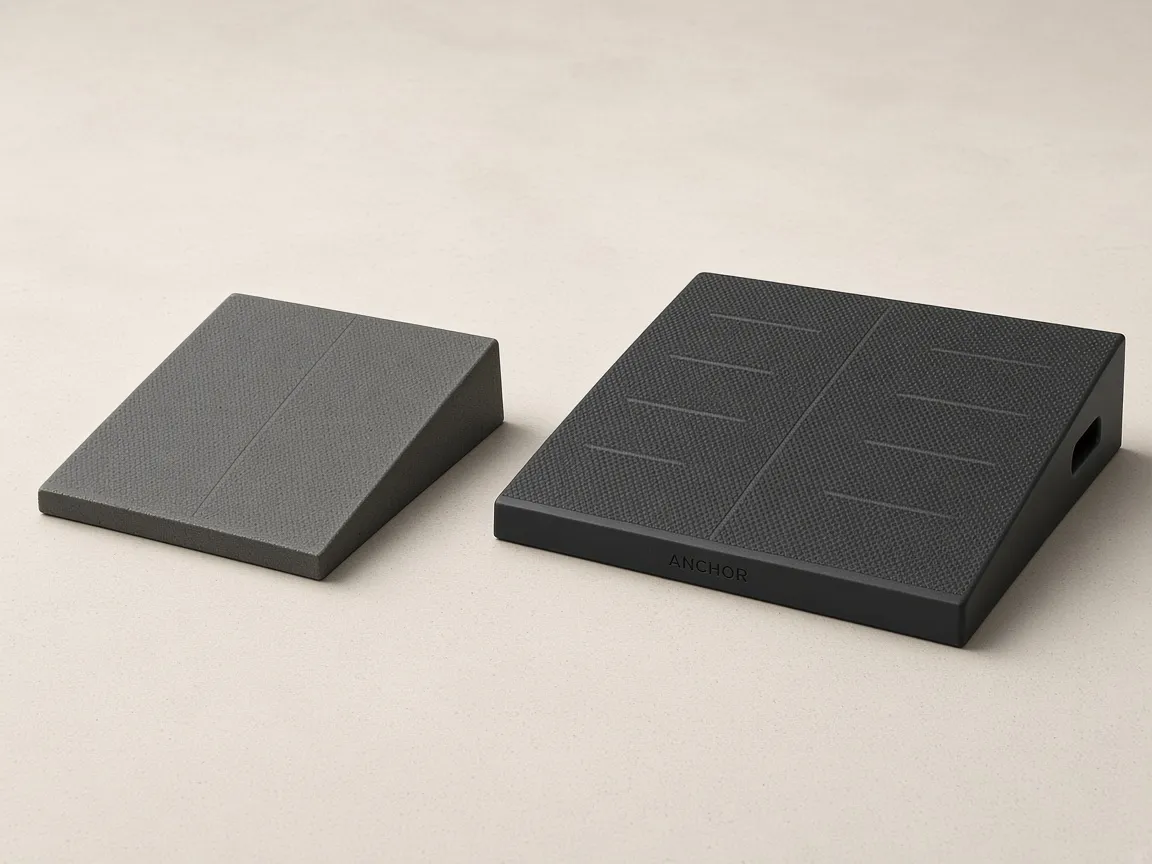
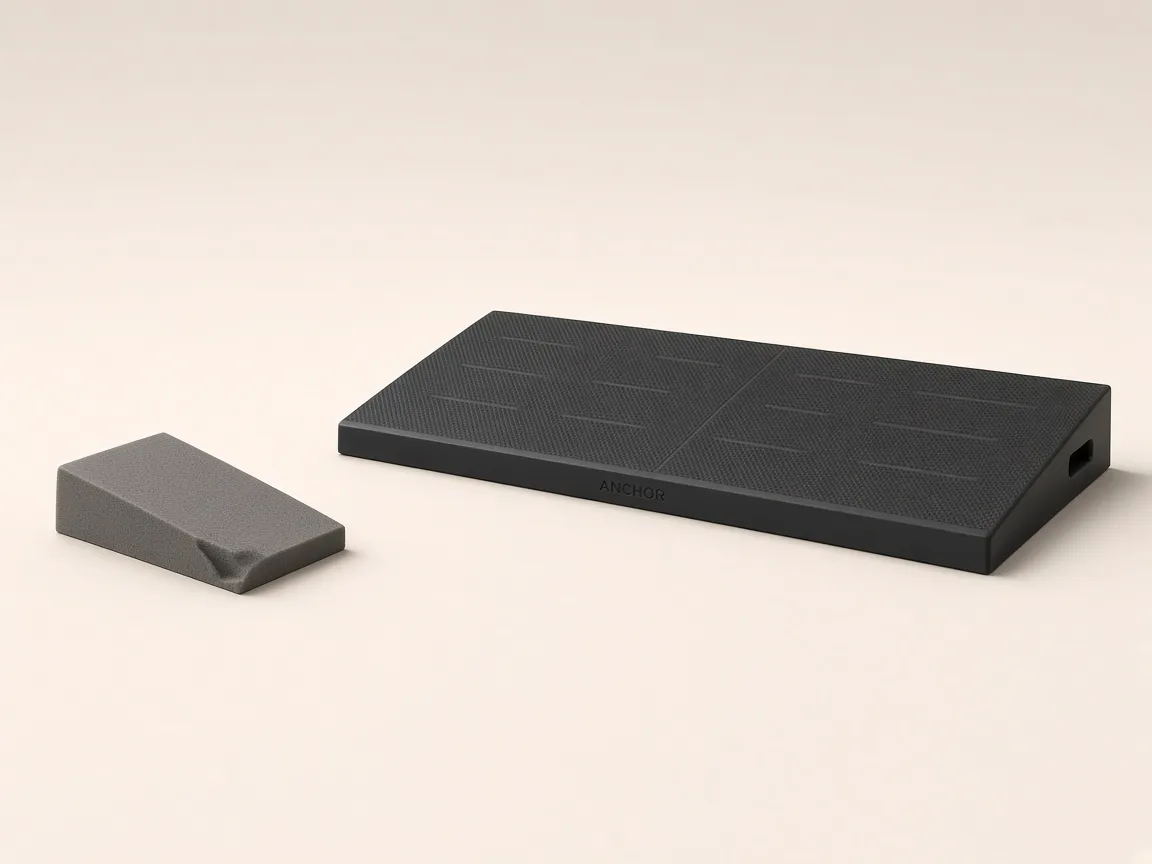
ANCHOR: 27in full-width one-piece wedge, regenerated images + copy

diff --git a/pages/squat-wedge-ads/index.html b/pages/squat-wedge-ads/index.html
@@ -113,13 +113,13 @@ So here&#x27;s what $79 gets you:
 • A hardwood core over-molded in natural rubber. Rated to 1,000 lb.
 • Grip molded into the material, not glued tape. Nothing to peel.
 • A full rubber base, so it stays put on the floor.
-• A 28&quot; platform that fits up to men&#x27;s size 15.
+• 27&quot; long, so both feet stand on it side by side, and 11&quot; deep, to men&#x27;s size 15.
 • About 7 lb, with a carry handle.
 
 And a lifetime grip guarantee. If the grip ever wears out, we replace it.
 
 Buy it once. Squat on it for years.</pre></div></details>
-  <details><summary>AI prompts (image 4:5 + video 9:16)</summary><div class="pblock"><div class="phead"><span class="plabel">4:5 founder static (used for the sample)</span><span class="badge">Adapted</span><button class="copy" type="button" aria-label="Copy 4:5 founder static (used for the sample)">Copy</button></div><pre>Photorealistic vertical photo of a fictional founder: a fit man in his early 40s with a short beard, plain black t-shirt with no logos, standing in a tidy home garage gym with a squat rack and plates behind him, holding the dark charcoal rubber ANCHOR squat wedge by its carry handle, looking straight into the camera with a calm, honest expression, like the first frame of a founder video. Natural daylight, warm tones, iPhone-style realism. Leave the top third clean. Text overlay (add in design tool): pill “FROM THE FOUNDER”; headline “$79 for a squat wedge? Yeah. Here&#x27;s why.”; sub “Most wedges are foam with tape glued on. Mine is a hardwood core molded in rubber, so the grip can&#x27;t peel and it doesn&#x27;t move.”; bottom bar: ANCHOR logo + “Lifetime grip guarantee”. Aspect 4:5 (also export 9:16). Label: AI-generated person. Use the ANCHOR product photo as a reference image so the product stays accurate: a dark charcoal one-piece rubber squat wedge (15°, 28&quot;x11&quot;), fine molded micro-texture across the whole top, molded foot-guide outlines near the low end, a recessed carry handle in the tall end, and a small orange ANCHOR logo on the side face.</pre></div><div class="pblock"><div class="phead"><span class="plabel">Video prompt, 9:16</span><span class="badge">Adapted</span><button class="copy" type="button" aria-label="Copy Video prompt, 9:16">Copy</button></div><pre>9:16, 30s, founder-to-camera, handheld iPhone look, garage gym.
+  <details><summary>AI prompts (image 4:5 + video 9:16)</summary><div class="pblock"><div class="phead"><span class="plabel">4:5 founder static (used for the sample)</span><span class="badge">Adapted</span><button class="copy" type="button" aria-label="Copy 4:5 founder static (used for the sample)">Copy</button></div><pre>Photorealistic vertical photo of a fictional founder: a fit man in his early 40s with a short beard, plain black t-shirt with no logos, standing in a tidy home garage gym with a squat rack and plates behind him, holding the long dark charcoal rubber ANCHOR squat wedge horizontally across his waist with a hand on each end, so its full 27&quot; length spans his body. Frame from the chin down (no face) for the sample; for a real founder video, film the real founder face-on. Natural daylight, warm tones, iPhone-style realism. Leave the top third clean. Text overlay (add in design tool): pill “FROM THE FOUNDER”; headline “$79 for a squat wedge? Yeah. Here&#x27;s why.”; sub “Most wedges are foam with tape glued on. Mine is a hardwood core molded in rubber, so the grip can&#x27;t peel and it doesn&#x27;t move.”; bottom bar: ANCHOR logo + “Lifetime grip guarantee”. Aspect 4:5 (also export 9:16). Label: AI-generated person. Use the ANCHOR product photo as a reference image so the product stays accurate: a dark charcoal one-piece rubber squat wedge (15°, 27&quot; long x 11&quot; deep x about 3&quot; tall at the back: long and low, about 2.5 times as long as it is deep, so BOTH feet stand on it side by side at shoulder width with room on each side; never show a narrow single-foot wedge or two feet crammed on a short one), fine molded micro-texture across the whole top, molded foot-guide outlines, a recessed carry handle in each short end, and a small orange ANCHOR logo on the front face.</pre></div><div class="pblock"><div class="phead"><span class="plabel">Video prompt, 9:16</span><span class="badge">Adapted</span><button class="copy" type="button" aria-label="Copy Video prompt, 9:16">Copy</button></div><pre>9:16, 30s, founder-to-camera, handheld iPhone look, garage gym.
 0-3s: Close medium shot, founder holds ANCHOR up to camera. On-screen: “Why is this wedge $79?” VO: “You might think $79 is a lot for a squat wedge. It is. Here&#x27;s why.”
 3-8s: Cut to founder dropping a cheap foam wedge on the floor and pressing his thumb into it; it dents. VO: “Most wedges are foam. They squish under a loaded bar.”
 8-12s: Macro of a premium plywood board&#x27;s grip tape peeling at the corner. VO: “The expensive ones are wood with tape glued on. Tape peels.”
@@ -130,10 +130,10 @@ Label the founder as AI-generated if he is.</pre></div></details>
   <details><summary>UGC creator script</summary><div class="pblock"><div class="phead"><span class="plabel">Creator script</span><span class="badge">Timestamps</span><button class="copy" type="button" aria-label="Copy Creator script">Copy</button></div><pre>0-3s HOOK (to camera, holding the wedge): “$79 for a squat wedge? Yeah, I know. Let me show you why.” On screen: “Why is this wedge $79?”
 3-10s PROBLEM: (hold up a foam wedge, squeeze it) “Every wedge I owned did one of three things. Squished under the bar… (show tape) the grip tape peeled… or it slid when I set my feet.”
 10-18s DISCOVERY: “So I made one with a hardwood core molded in rubber. The grip isn&#x27;t tape, it&#x27;s molded into the material. Nothing to peel.” On screen: close-up of texture.
-18-25s DEMO: (in socks) set feet, squat 3 reps, look down at feet. “Socks. Didn&#x27;t move.” On screen: “28&quot; long, fits up to size 15”.
+18-25s DEMO: (in socks) set feet, squat 3 reps, look down at feet. “Socks. Didn&#x27;t move.” On screen: “27&quot; long, both feet, to size 15”.
 25-30s OFFER + CTA: “Lifetime grip guarantee. $79. Link&#x27;s below.” On screen: “The squat wedge that doesn&#x27;t move.”
 ALT HOOKS: (1) “Most premium slant boards are plywood with skateboard tape.” (2) “If your wedge has ever slid under a loaded bar, watch this.” (3) “I&#x27;m going to tell you why I charge $79 for a wedge.”</pre></div></details>
-  <details><summary>Creator brief (Influee / JoinBrands / Tribe / Billo)</summary><div class="pblock"><div class="phead"><span class="plabel">Creator brief</span><span class="badge">Paste-ready</span><button class="copy" type="button" aria-label="Copy Creator brief">Copy</button></div><pre>Product: ANCHOR Squat Wedge ($79), a one-piece 15° wedge with a hardwood core over-molded in natural rubber, grip molded in (no tape), full rubber base, 28x11 platform (to men&#x27;s size 15), rated 1,000 lb, ~7 lb, lifetime grip guarantee.
+  <details><summary>Creator brief (Influee / JoinBrands / Tribe / Billo)</summary><div class="pblock"><div class="phead"><span class="plabel">Creator brief</span><span class="badge">Paste-ready</span><button class="copy" type="button" aria-label="Copy Creator brief">Copy</button></div><pre>Product: ANCHOR Squat Wedge ($79), a one-piece 15° wedge with a hardwood core over-molded in natural rubber, grip molded in (no tape), full rubber base, 27&quot; x 11&quot; one-piece platform (both feet side by side; 11&quot; deep fits men&#x27;s size 15), rated 1,000 lb, ~7 lb, lifetime grip guarantee.
 Creator: a male lifter aged 30-45 with a home or garage gym who can speak like the founder or an honest reviewer. Calm and credible, not hype.
 Deliverables: 2 videos at 30-45s, 9:16, plus 3 alternate hooks filmed separately, plus raw footage.
 Must say: “The grip is molded in, not glued on.” “Lifetime grip guarantee.” The price ($79).
@@ -173,12 +173,12 @@ ANCHOR is built differently:
 ✓ Hardwood core over-molded in natural rubber, rated to 1,000 lb
 ✓ Grip molded into the rubber, so there&#x27;s nothing to peel
 ✓ Full rubber base, so it stays put on the floor
-✓ 28&quot; platform that fits up to men&#x27;s size 15
+✓ 27&quot; long for both feet, 11&quot; deep for up to men&#x27;s size 15
 
 If you&#x27;re serious about your squat, your wedge should be too.
 
 Lifetime grip guarantee.</pre></div></details>
-  <details><summary>AI prompts (image 4:5 + video 9:16)</summary><div class="pblock"><div class="phead"><span class="plabel">4:5 comparison static (used for the sample)</span><span class="badge">Adapted</span><button class="copy" type="button" aria-label="Copy 4:5 comparison static (used for the sample)">Copy</button></div><pre>Photorealistic vertical split-screen product comparison with a thin divider. LEFT: a generic unbranded light-blue foam squat wedge with a dented corner, crumbs of foam, and black grip tape peeling up, under cool flat light. RIGHT: the dark charcoal rubber ANCHOR wedge, pristine, with its molded micro-texture top and orange logo, under warm premium light, at the same three-quarter angle on the same concrete floor. Leave the top 25% empty. Text overlay: headline “Most squat wedges slip, squish or peel.” sub “ANCHOR is built differently.”; labels “Foam + glued tape” vs “ANCHOR”; rows ✕ Compresses under load / ✓ Hardwood core, 1,000 lb; ✕ Tape peels, goes smooth / ✓ Grip molded in, can&#x27;t peel; ✕ Slides in socks / ✓ Grips socks &amp; bare feet; ✕ Too short for size 13 / ✓ 28&quot; platform, to size 15. Never show a real competitor&#x27;s brand. 4:5 and 9:16. Use the ANCHOR product photo as a reference image so the product stays accurate: a dark charcoal one-piece rubber squat wedge (15°, 28&quot;x11&quot;), fine molded micro-texture across the whole top, molded foot-guide outlines near the low end, a recessed carry handle in the tall end, and a small orange ANCHOR logo on the side face.</pre></div><div class="pblock"><div class="phead"><span class="plabel">Video prompt, 9:16</span><span class="badge">Adapted</span><button class="copy" type="button" aria-label="Copy Video prompt, 9:16">Copy</button></div><pre>9:16, 18s, moody product-detail montage, no voiceover, punchy beat (instrumental).
+  <details><summary>AI prompts (image 4:5 + video 9:16)</summary><div class="pblock"><div class="phead"><span class="plabel">4:5 comparison static (used for the sample)</span><span class="badge">Adapted</span><button class="copy" type="button" aria-label="Copy 4:5 comparison static (used for the sample)">Copy</button></div><pre>Photorealistic vertical split-screen product comparison with a thin divider. LEFT: a generic unbranded light-blue foam squat wedge with a dented corner, crumbs of foam, and black grip tape peeling up, under cool flat light. RIGHT: the long (27&quot;) dark charcoal rubber ANCHOR wedge, clearly more than twice the length of the foam one, pristine, with its molded micro-texture top and orange logo, under warm premium light, at the same three-quarter angle on the same concrete floor. Leave the top 25% empty. Text overlay: headline “Most squat wedges slip, squish or peel.” sub “ANCHOR is built differently.”; labels “Foam + glued tape” vs “ANCHOR”; rows ✕ Compresses under load / ✓ Hardwood core, 1,000 lb; ✕ Tape peels, goes smooth / ✓ Grip molded in, can&#x27;t peel; ✕ Slides in socks / ✓ Grips socks &amp; bare feet; ✕ Too short for size 13 / ✓ 27&quot; long, fits size 15. Never show a real competitor&#x27;s brand. 4:5 and 9:16. Use the ANCHOR product photo as a reference image so the product stays accurate: a dark charcoal one-piece rubber squat wedge (15°, 27&quot; long x 11&quot; deep x about 3&quot; tall at the back: long and low, about 2.5 times as long as it is deep, so BOTH feet stand on it side by side at shoulder width with room on each side; never show a narrow single-foot wedge or two feet crammed on a short one), fine molded micro-texture across the whole top, molded foot-guide outlines, a recessed carry handle in each short end, and a small orange ANCHOR logo on the front face.</pre></div><div class="pblock"><div class="phead"><span class="plabel">Video prompt, 9:16</span><span class="badge">Adapted</span><button class="copy" type="button" aria-label="Copy Video prompt, 9:16">Copy</button></div><pre>9:16, 18s, moody product-detail montage, no voiceover, punchy beat (instrumental).
 0-2s: Black screen. Text: “Most squat wedges are foam.” Then a hand presses into a generic foam wedge, which dents.
 2-5s: Macro of grip tape peeling off a wooden board. Text: “Or tape on wood.”
 5-9s: Hard cut to ANCHOR on a dark rubber gym floor under a spotlight; slow dolly-in across the molded texture. Text: “ANCHOR: grip molded in.”
@@ -229,14 +229,14 @@ Socks, bare feet, lifting shoes. A loaded bar. A size-15 foot. ANCHOR doesn&#x27
 That&#x27;s because the grip isn&#x27;t tape. It&#x27;s molded into the rubber, over a solid hardwood core, on a full rubber base.
 
 • 15° one-piece wedge
-• 28&quot; x 11&quot; platform, fits up to men&#x27;s size 15
+• 27&quot; x 11&quot; one-piece platform: both feet side by side, up to men&#x27;s size 15
 • Rated to 1,000 lb, about 7 lb with a carry handle
 • Lifetime grip guarantee</pre></div></details>
-  <details><summary>AI prompts (image 4:5 + video 9:16)</summary><div class="pblock"><div class="phead"><span class="plabel">4:5 sock-grip close-up (used for the sample)</span><span class="badge">Adapted</span><button class="copy" type="button" aria-label="Copy 4:5 sock-grip close-up (used for the sample)">Copy</button></div><pre>Photorealistic low-angle close-up at floor level: two feet in plain grey athletic socks planted on the sloped top of the dark charcoal rubber ANCHOR squat wedge, heels on the raised end, the molded micro-texture sharply visible under the socks. Garage-gym concrete floor, warm side light, shallow depth of field. Text overlay at top over a dark gradient: “Socks. Bare feet. Shoes.” then, in orange, “It doesn&#x27;t move.”; sub “Grip molded into the rubber, not glued on. Lifetime grip guarantee.” 4:5 and 9:16. Use the ANCHOR product photo as a reference image so the product stays accurate: a dark charcoal one-piece rubber squat wedge (15°, 28&quot;x11&quot;), fine molded micro-texture across the whole top, molded foot-guide outlines near the low end, a recessed carry handle in the tall end, and a small orange ANCHOR logo on the side face.</pre></div><div class="pblock"><div class="phead"><span class="plabel">Video prompt, 9:16</span><span class="badge">Adapted</span><button class="copy" type="button" aria-label="Copy Video prompt, 9:16">Copy</button></div><pre>9:16, 14s, wordless, seamless light-grey studio, music only, fast cuts (Nordstick style).
+  <details><summary>AI prompts (image 4:5 + video 9:16)</summary><div class="pblock"><div class="phead"><span class="plabel">4:5 sock-grip close-up (used for the sample)</span><span class="badge">Adapted</span><button class="copy" type="button" aria-label="Copy 4:5 sock-grip close-up (used for the sample)">Copy</button></div><pre>Photorealistic low-angle close-up at floor level: two feet in grey athletic socks planted side by side at shoulder width on the sloped top of the one long (27&quot;) dark charcoal rubber ANCHOR squat wedge, empty wedge visible beyond each foot, heels on the raised back edge, the molded micro-texture sharply visible under the socks. Garage-gym concrete floor, warm side light, shallow depth of field. Text overlay at top over a dark gradient: “Socks. Bare feet. Shoes.” then, in orange, “It doesn&#x27;t move.”; sub “Grip molded into the rubber, not glued on. Lifetime grip guarantee.” 4:5 and 9:16. Use the ANCHOR product photo as a reference image so the product stays accurate: a dark charcoal one-piece rubber squat wedge (15°, 27&quot; long x 11&quot; deep x about 3&quot; tall at the back: long and low, about 2.5 times as long as it is deep, so BOTH feet stand on it side by side at shoulder width with room on each side; never show a narrow single-foot wedge or two feet crammed on a short one), fine molded micro-texture across the whole top, molded foot-guide outlines, a recessed carry handle in each short end, and a small orange ANCHOR logo on the front face.</pre></div><div class="pblock"><div class="phead"><span class="plabel">Video prompt, 9:16</span><span class="badge">Adapted</span><button class="copy" type="button" aria-label="Copy Video prompt, 9:16">Copy</button></div><pre>9:16, 14s, wordless, seamless light-grey studio, music only, fast cuts (Nordstick style).
 0-2s: Top text “WHAT CAN&#x27;T IT GRIP?” Camera at foot level; a socked foot steps onto ANCHOR.
 2-4s: Bare foot steps on, wiggles, stays put. Text “Bare feet ✓”.
 4-6s: Lifting shoe steps on. Text “Shoes ✓”.
-6-9s: A size-15 foot fits fully on the 28&quot; platform; a tape measure pulled alongside. Text “Up to size 15 ✓”.
+6-9s: Both feet at shoulder width on the 27&quot; wedge, then a size-15 foot fitting fully front to back; a tape measure pulled alongside. Text “27&quot; long · up to size 15 ✓”.
 9-12s: Wide shot: barbell back squat in socks, deep, feet stay planted. Text “Loaded bar ✓”.
 12-14s: End card: ANCHOR, “The squat wedge that doesn&#x27;t move.”</pre></div></details>
   <details><summary>UGC creator script</summary><div class="pblock"><div class="phead"><span class="plabel">Creator script</span><span class="badge">Timestamps</span><button class="copy" type="button" aria-label="Copy Creator script">Copy</button></div><pre>CREATOR VERSION (PT or coach, 30-40s):
@@ -341,7 +341,7 @@ No flex. No slide. No grip tape to peel.
 ANCHOR is a hardwood core molded in natural rubber, rated to 1,000 lb, with the grip built into the material and a full rubber base. It still weighs only about 7 lb, so it goes in your gym bag.
 
 Lifetime grip guarantee. $79, once.</pre></div></details>
-  <details><summary>AI prompts (image 4:5 + video 9:16)</summary><div class="pblock"><div class="phead"><span class="plabel">4:5 load static (used for the sample)</span><span class="badge">Adapted</span><button class="copy" type="button" aria-label="Copy 4:5 load static (used for the sample)">Copy</button></div><pre>Photorealistic vertical action photo in a home garage gym: a strong lifter in his 30s at the bottom of a deep high-bar back squat with a heavily loaded barbell (black bumper plates, no logos), torso upright, heels elevated on the dark charcoal rubber ANCHOR wedge, which sits flat and stable on rubber flooring. Low side camera so the wedge and orange logo are clear. Dramatic warm side light. Text overlay at top over a gradient: “Rated to 1,000 lb.” / orange “Zero give. Zero slide.” / “The last squat wedge you&#x27;ll buy. $79.” Label: AI-generated image. 4:5 and 9:16. Use the ANCHOR product photo as a reference image so the product stays accurate: a dark charcoal one-piece rubber squat wedge (15°, 28&quot;x11&quot;), fine molded micro-texture across the whole top, molded foot-guide outlines near the low end, a recessed carry handle in the tall end, and a small orange ANCHOR logo on the side face.</pre></div><div class="pblock"><div class="phead"><span class="plabel">Video prompt, 9:16</span><span class="badge">Adapted</span><button class="copy" type="button" aria-label="Copy Video prompt, 9:16">Copy</button></div><pre>9:16, 25s, creator review in a garage gym.
+  <details><summary>AI prompts (image 4:5 + video 9:16)</summary><div class="pblock"><div class="phead"><span class="plabel">4:5 load static (used for the sample)</span><span class="badge">Adapted</span><button class="copy" type="button" aria-label="Copy 4:5 load static (used for the sample)">Copy</button></div><pre>Photorealistic vertical action photo in a home garage gym: a strong lifter in his 30s at the bottom of a deep high-bar back squat with a heavily loaded barbell (black bumper plates, no logos), torso upright, both feet at shoulder width with heels elevated on the one long (27&quot;) dark charcoal rubber ANCHOR wedge, which sits flat and stable on rubber flooring. Low side camera so the wedge and orange logo are clear. Dramatic warm side light. Text overlay at top over a gradient: “Rated to 1,000 lb.” / orange “Zero give. Zero slide.” / “The last squat wedge you&#x27;ll buy. $79.” Label: AI-generated image. 4:5 and 9:16. Use the ANCHOR product photo as a reference image so the product stays accurate: a dark charcoal one-piece rubber squat wedge (15°, 27&quot; long x 11&quot; deep x about 3&quot; tall at the back: long and low, about 2.5 times as long as it is deep, so BOTH feet stand on it side by side at shoulder width with room on each side; never show a narrow single-foot wedge or two feet crammed on a short one), fine molded micro-texture across the whole top, molded foot-guide outlines, a recessed carry handle in each short end, and a small orange ANCHOR logo on the front face.</pre></div><div class="pblock"><div class="phead"><span class="plabel">Video prompt, 9:16</span><span class="badge">Adapted</span><button class="copy" type="button" aria-label="Copy Video prompt, 9:16">Copy</button></div><pre>9:16, 25s, creator review in a garage gym.
 0-3s: Creator to camera: “In my opinion, this is the last squat wedge you&#x27;ll buy.” Text: “Load test.”
 3-8s: Stack 45 lb plates one by one on ANCHOR; macro on the edge showing no compression. Text counts “45… 90… 135… 180 lb”.
 8-12s: Side-by-side: thumb into a generic foam wedge (dents) vs. thumb on ANCHOR (doesn&#x27;t).
@@ -395,7 +395,7 @@ But it only works if the wedge is stable. Mine used to slide on the floor and wo
 ANCHOR has a full rubber base and grip molded into the top, so it stays put, even in socks. It&#x27;s 7 lb with a handle, so I move it from the living room to the bedroom.
 
 Start easy, go at your own pace, and check with your doctor or physical therapist if you have an injury.</pre></div></details>
-  <details><summary>AI prompts (image 4:5 + video 9:16)</summary><div class="pblock"><div class="phead"><span class="plabel">4:5 comfort static (used for the sample)</span><span class="badge">Adapted</span><button class="copy" type="button" aria-label="Copy 4:5 comfort static (used for the sample)">Copy</button></div><pre>Photorealistic UGC-style phone photo: a fit, smiling woman in her late 50s with short grey hair, plain leggings and t-shirt, doing a light goblet squat holding a kettlebell in her living room, heels on the raised end of the dark charcoal ANCHOR wedge, torso upright, comfortable and confident. Warm window light. Text card top-right: “Squats that feel easier on your knees.” / “Heels up, chest up, on a base that doesn&#x27;t wobble. 7 lb, carry handle.” Label: AI-generated person. No logos on the kettlebell. 4:5 and 9:16. Use the ANCHOR product photo as a reference image so the product stays accurate: a dark charcoal one-piece rubber squat wedge (15°, 28&quot;x11&quot;), fine molded micro-texture across the whole top, molded foot-guide outlines near the low end, a recessed carry handle in the tall end, and a small orange ANCHOR logo on the side face.</pre></div><div class="pblock"><div class="phead"><span class="plabel">Video prompt, 9:16</span><span class="badge">Adapted</span><button class="copy" type="button" aria-label="Copy Video prompt, 9:16">Copy</button></div><pre>9:16, 25s, selfie UGC in a living room, natural light, with a TikTok-style “Reply to comment” sticker that reads “my knees could never”.
+  <details><summary>AI prompts (image 4:5 + video 9:16)</summary><div class="pblock"><div class="phead"><span class="plabel">4:5 comfort static (used for the sample)</span><span class="badge">Adapted</span><button class="copy" type="button" aria-label="Copy 4:5 comfort static (used for the sample)">Copy</button></div><pre>Photorealistic UGC-style phone photo: a fit, smiling woman in her late 50s with short grey hair, plain leggings and t-shirt, doing a light goblet squat holding a kettlebell in her living room, both feet at shoulder width with heels on the raised back edge of the one long (27&quot;) dark charcoal ANCHOR wedge, torso upright, comfortable and confident. Warm window light. Text card top-right: “Squats that feel easier on your knees.” / “Heels up, chest up, on a base that doesn&#x27;t wobble. 7 lb, carry handle.” Label: AI-generated person. No logos on the kettlebell. 4:5 and 9:16. Use the ANCHOR product photo as a reference image so the product stays accurate: a dark charcoal one-piece rubber squat wedge (15°, 27&quot; long x 11&quot; deep x about 3&quot; tall at the back: long and low, about 2.5 times as long as it is deep, so BOTH feet stand on it side by side at shoulder width with room on each side; never show a narrow single-foot wedge or two feet crammed on a short one), fine molded micro-texture across the whole top, molded foot-guide outlines, a recessed carry handle in each short end, and a small orange ANCHOR logo on the front face.</pre></div><div class="pblock"><div class="phead"><span class="plabel">Video prompt, 9:16</span><span class="badge">Adapted</span><button class="copy" type="button" aria-label="Copy Video prompt, 9:16">Copy</button></div><pre>9:16, 25s, selfie UGC in a living room, natural light, with a TikTok-style “Reply to comment” sticker that reads “my knees could never”.
 0-3s: A woman (55-65) talks to the camera, holding ANCHOR: “Replying to ‘my knees could never’: try raising your heels.”
 3-8s: Side view: a bodyweight squat flat-footed (she stops shallow), then on ANCHOR (she sits deeper, chest up). Text: “Heels up = chest up.”
 8-14s: Close-up: socked feet on the wedge; she shifts her weight and nothing moves. VO: “It doesn&#x27;t slide, even in socks.”
@@ -446,8 +446,8 @@ Waiting for the coffee. At your standing desk. After a run.
 
 Most wedges are slick in socks and creep across the floor. ANCHOR has grip molded into the rubber and a full rubber base, so it stays where you put it, even on hardwood.
 
-15°, wide enough for both feet, 7 lb with a carry handle. Lifetime grip guarantee.</pre></div></details>
-  <details><summary>AI prompts (image 4:5 + video 9:16)</summary><div class="pblock"><div class="phead"><span class="plabel">4:5 desk static (used for the sample)</span><span class="badge">Adapted</span><button class="copy" type="button" aria-label="Copy 4:5 desk static (used for the sample)">Copy</button></div><pre>Photorealistic lifestyle phone photo: a woman in her 40s in casual work-from-home clothes and plain white socks at a standing desk with a laptop and coffee mug, both feet on the dark charcoal ANCHOR wedge for a gentle calf stretch. Bright home office, morning window light, candid UGC feel. Text card at top on white: “Stand on it while the coffee brews.” / “A daily calf stretch at your desk, on a wedge that grips your socks and won&#x27;t creep across the floor.” Label: AI-generated person. 4:5 and 9:16. Use the ANCHOR product photo as a reference image so the product stays accurate: a dark charcoal one-piece rubber squat wedge (15°, 28&quot;x11&quot;), fine molded micro-texture across the whole top, molded foot-guide outlines near the low end, a recessed carry handle in the tall end, and a small orange ANCHOR logo on the side face.</pre></div><div class="pblock"><div class="phead"><span class="plabel">Video prompt, 9:16</span><span class="badge">Adapted</span><button class="copy" type="button" aria-label="Copy Video prompt, 9:16">Copy</button></div><pre>9:16, 15s, text-overlay demo, soft acoustic music, no voiceover.
+15°, 27&quot; long so both feet fit side by side, 7 lb with a carry handle. Lifetime grip guarantee.</pre></div></details>
+  <details><summary>AI prompts (image 4:5 + video 9:16)</summary><div class="pblock"><div class="phead"><span class="plabel">4:5 desk static (used for the sample)</span><span class="badge">Adapted</span><button class="copy" type="button" aria-label="Copy 4:5 desk static (used for the sample)">Copy</button></div><pre>Photorealistic lifestyle phone photo: a woman in her 40s in casual work-from-home clothes and plain white socks at a standing desk with a laptop and coffee mug, both feet side by side on the one long (27&quot;) dark charcoal ANCHOR wedge, room to spare on each side, for a gentle calf stretch. Bright home office, morning window light, candid UGC feel. Text card at top on white: “Stand on it while the coffee brews.” / “A daily calf stretch at your desk, on a wedge that grips your socks and won&#x27;t creep across the floor.” Label: AI-generated person. 4:5 and 9:16. Use the ANCHOR product photo as a reference image so the product stays accurate: a dark charcoal one-piece rubber squat wedge (15°, 27&quot; long x 11&quot; deep x about 3&quot; tall at the back: long and low, about 2.5 times as long as it is deep, so BOTH feet stand on it side by side at shoulder width with room on each side; never show a narrow single-foot wedge or two feet crammed on a short one), fine molded micro-texture across the whole top, molded foot-guide outlines, a recessed carry handle in each short end, and a small orange ANCHOR logo on the front face.</pre></div><div class="pblock"><div class="phead"><span class="plabel">Video prompt, 9:16</span><span class="badge">Adapted</span><button class="copy" type="button" aria-label="Copy Video prompt, 9:16">Copy</button></div><pre>9:16, 15s, text-overlay demo, soft acoustic music, no voiceover.
 0-3s: Kitchen; a coffee machine starts. A socked foot slides ANCHOR out from under the counter with a toe. Big caption: “Stand on it while the coffee brews.”
 3-7s: Both socked feet on the wedge for a calf stretch; macro of the socks on the texture. Caption: “Grips socks. No sliding.”
 7-11s: Cut to a standing desk, typing while stretching. Caption: “Or at your desk.”
@@ -486,9 +486,9 @@ Rights: 12 months of Meta paid usage, whitelisting, and raw files.</pre></div></
   <p class="src">Review language: “DO NOT BUY IF YOU HAVE SIZE 9 MENS SHOES OR HIGHER. I follow knees over toes program” (Wolf, 1★); “Any shoe size over 10 will cause the big toe to be on the floor… make the exercise useless” (PT, Wolf 1★); “Why does a few pieces of wood cost $199?” (r/Kneesovertoes).</p>
   <h3>Meta copy</h3>
   <div class="adcopy">
-    <p class="k">Primary text (short)</p><p>What a coach looks for in a squat wedge: it fits your whole foot, and it doesn&#x27;t move. ANCHOR: 28&quot; platform to size 15, grip molded in.</p>
+    <p class="k">Primary text (short)</p><p>What a coach looks for in a squat wedge: it fits your whole foot, and it doesn&#x27;t move. ANCHOR: 27&quot; long, both feet, to size 15, grip molded in.</p>
     <p class="k">Headline</p><p class="hl">Fits your whole foot. Doesn&#x27;t move.</p>
-    <p class="k">Description</p><p>28&quot; platform, to size 15. $79.</p>
+    <p class="k">Description</p><p>27&quot; long, to size 15. $79.</p>
     <p class="k">CTA button</p><p><span class="cta">Learn More</span></p>
   </div>
   <details><summary>Long primary text</summary><div class="pblock"><div class="phead"><span class="plabel">Primary text (long)</span><span class="badge">Meta</span><button class="copy" type="button" aria-label="Copy Primary text (long)">Copy</button></div><pre>We asked a strength coach what makes a squat wedge good.
@@ -497,14 +497,14 @@ His answer: two things. Your whole foot has to fit, and it can&#x27;t move.
 
 Most wedges fail one or both. Short ones leave big toes on the floor. Taped ones go smooth. Foam ones slide.
 
-ANCHOR: 28&quot; x 11&quot; platform (up to men&#x27;s size 15), grip molded into the rubber, full rubber base, rated to 1,000 lb.
+ANCHOR: 27&quot; x 11&quot; one-piece platform (both feet side by side, up to men&#x27;s size 15), grip molded into the rubber, full rubber base, rated to 1,000 lb.
 
 Lifetime grip guarantee.</pre></div></details>
-  <details><summary>AI prompts (image 4:5 + video 9:16)</summary><div class="pblock"><div class="phead"><span class="plabel">4:5 quote-card static</span><span class="badge">Adapted</span><button class="copy" type="button" aria-label="Copy 4:5 quote-card static">Copy</button></div><pre>Vertical 4:5 podcast quote card: a dark studio frame with a real guest&#x27;s photo (supplied, with permission) wearing headphones at a mic, burned-in caption style text in white with one word highlighted in orange: “The #1 thing I look for in a wedge? It can&#x27;t MOVE.” Lower third: guest name and real credential. Small ANCHOR product shot bottom-right. Never use a real celebrity without a license. Use the ANCHOR product photo as a reference image so the product stays accurate: a dark charcoal one-piece rubber squat wedge (15°, 28&quot;x11&quot;), fine molded micro-texture across the whole top, molded foot-guide outlines near the low end, a recessed carry handle in the tall end, and a small orange ANCHOR logo on the side face.</pre></div><div class="pblock"><div class="phead"><span class="plabel">Video prompt, 9:16</span><span class="badge">Adapted</span><button class="copy" type="button" aria-label="Copy Video prompt, 9:16">Copy</button></div><pre>9:16, 30s, REAL footage only (no AI person posing as a real expert). Vertical crop of a podcast or interview, guest centered, with bold word-by-word captions (white, key words orange).
+  <details><summary>AI prompts (image 4:5 + video 9:16)</summary><div class="pblock"><div class="phead"><span class="plabel">4:5 quote-card static</span><span class="badge">Adapted</span><button class="copy" type="button" aria-label="Copy 4:5 quote-card static">Copy</button></div><pre>Vertical 4:5 podcast quote card: a dark studio frame with a real guest&#x27;s photo (supplied, with permission) wearing headphones at a mic, burned-in caption style text in white with one word highlighted in orange: “The #1 thing I look for in a wedge? It can&#x27;t MOVE.” Lower third: guest name and real credential. Small ANCHOR product shot bottom-right. Never use a real celebrity without a license. Use the ANCHOR product photo as a reference image so the product stays accurate: a dark charcoal one-piece rubber squat wedge (15°, 27&quot; long x 11&quot; deep x about 3&quot; tall at the back: long and low, about 2.5 times as long as it is deep, so BOTH feet stand on it side by side at shoulder width with room on each side; never show a narrow single-foot wedge or two feet crammed on a short one), fine molded micro-texture across the whole top, molded foot-guide outlines, a recessed carry handle in each short end, and a small orange ANCHOR logo on the front face.</pre></div><div class="pblock"><div class="phead"><span class="plabel">Video prompt, 9:16</span><span class="badge">Adapted</span><button class="copy" type="button" aria-label="Copy Video prompt, 9:16">Copy</button></div><pre>9:16, 30s, REAL footage only (no AI person posing as a real expert). Vertical crop of a podcast or interview, guest centered, with bold word-by-word captions (white, key words orange).
 0-3s: Guest: “There&#x27;s this wedge where the grip is molded into the rubber.”
 3-15s: Guest explains what matters: whole-foot fit and no movement; B-roll of ANCHOR with a size-14 foot and socks.
 15-25s: B-roll of a slant split squat and a heel-elevated squat on ANCHOR.
-25-30s: End card: ANCHOR, “28&quot; platform · grip molded in · lifetime grip guarantee”.</pre></div></details>
+25-30s: End card: ANCHOR, “27&quot; one-piece platform · grip molded in · lifetime grip guarantee”.</pre></div></details>
   <details><summary>UGC creator script</summary><div class="pblock"><div class="phead"><span class="plabel">Creator script</span><span class="badge">Timestamps</span><button class="copy" type="button" aria-label="Copy Creator script">Copy</button></div><pre>INTERVIEW QUESTIONS (to get a natural 30s clip from a real coach or PT):
 Q1 (0-3s hook): “What&#x27;s the first thing you check on a squat wedge?” Target answer: “That it can&#x27;t move.”
 Q2 (3-15s): “What goes wrong with most of them?” Target: short platforms, slippery tops, tape that wears smooth.

diff --git a/pages/squat-wedge/index.html b/pages/squat-wedge/index.html
@@ -66,9 +66,9 @@ td.n{color:var(--muted)}
       <p class="eyebrow">Home gym · Squat gear</p>
       <h1>7 Reasons Why Home-Gym Lifters Are Switching to ANCHOR <span class="paren">The squat wedge that doesn't move. Not on the floor, not under your feet, not under a loaded bar.</span></h1>
       <p class="sub summary-line"><b>SUMMARY:</b> Most squat wedges are foam that squishes, or plywood with grip tape that peels. Lifters say their feet slide off them, especially in socks. ANCHOR is one solid piece of hardwood wrapped in molded natural rubber, with the grip built into the surface. Here's exactly why lifters are making the switch.</p>
-      <p class="proof-line"><span>One-piece 15° wedge</span> · <span>Rated to 1,000 lb</span> · <span>Fits up to men's size 15</span></p>
+      <p class="proof-line"><span>One-piece 15° wedge, 27" long</span> · <span>Rated to 1,000 lb</span> · <span>Fits up to men's size 15</span></p>
     </div>
-    <div class="hero-media"><img src="img/wedge-hero.webp" width="1280" height="720" alt="The ANCHOR squat wedge: one long, low charcoal rubber ramp with a molded texture and foot guides" fetchpriority="high"></div>
+    <div class="hero-media"><img src="img/wedge-hero.webp" width="1280" height="720" alt="The ANCHOR squat wedge: one 27-inch-long, low charcoal rubber ramp with a molded texture and foot guides" fetchpriority="high"></div>
     <div class="hero-cta">
       <a class="btn" href="#offer">Get the wedge that stays put →<small>Free shipping · 60-day guarantee</small></a>
       <p class="trust-line"><b>60-day Doesn't-Move Guarantee</b> · Lifetime grip guarantee · Free US shipping</p>
@@ -110,12 +110,12 @@ td.n{color:var(--muted)}
 
 <section class="band band-paper" id="reason-1">
   <div class="wrap reason">
-    <div class="media land"><img loading="lazy" src="img/sock-squat.webp" width="1152" height="864" alt="Socked feet in a deep squat on the ANCHOR wedge, heels raised"></div>
+    <div class="media land"><img loading="lazy" src="img/sock-squat.webp" width="1152" height="864" alt="Both socked feet at shoulder width in a deep squat on the 27-inch ANCHOR wedge, heels raised"></div>
     <div>
       <span class="num">#1</span>
       <h2>Finally Hit Depth, Even With Tight Ankles</h2>
       <p>If your heels lift, your chest drops, or you stall above parallel, the problem often isn't your legs. It's your ankles. A 15° heel lift does the ankle bend for you, so you sit straight down between your heels with an upright torso. That's the position you need to train your quads hard without folding over and loading your lower back.</p>
-      <p>ANCHOR gives you that lift on one wide, solid platform. Both feet go on it at once, in whatever stance you squat.</p>
+      <p>ANCHOR gives you that lift on one long, solid platform. At 27" long, both feet stand on it side by side at shoulder width, with room to spare on each side.</p>
     </div>
   </div>
 </section>
@@ -134,7 +134,7 @@ td.n{color:var(--muted)}
 
 <section class="band band-paper" id="reason-3">
   <div class="wrap reason">
-    <div class="media land"><img loading="lazy" src="img/foam-vs-anchor.webp" width="1152" height="864" alt="A small grey foam wedge next to the larger, solid ANCHOR rubber wedge"></div>
+    <div class="media land"><img loading="lazy" src="img/foam-vs-anchor.webp" width="1152" height="864" alt="A small single-foot grey foam wedge next to the 27-inch-long, solid ANCHOR rubber wedge"></div>
     <div>
       <span class="num">#3</span>
       <h2>Zero Give Under a Loaded Bar</h2>
@@ -146,11 +146,11 @@ td.n{color:var(--muted)}
 
 <section class="band band-sand" id="reason-4">
   <div class="wrap reason flip">
-    <div class="media land"><img loading="lazy" src="img/wedge-product.webp" width="1152" height="864" alt="ANCHOR wedge seen from the front corner, showing the molded foot guides and carry handle"></div>
+    <div class="media land"><img loading="lazy" src="img/wedge-product.webp" width="1152" height="864" alt="The 27-inch ANCHOR wedge seen from the front corner, showing the molded foot guides and carry handle"></div>
     <div>
       <span class="num">#4</span>
-      <h2>Room for Size-15 Feet, in One Piece</h2>
-      <p>Short wedges leave your toes hanging off the front, which makes the exercise pointless. ANCHOR's platform is 28" × 11", long enough for men's size 15. It's one piece, so there are no stacked layers to shift and no two separate blocks to line up.</p>
+      <h2>Room for Both Feet, Up to Size 15, in One Piece</h2>
+      <p>Short wedges leave your toes hanging off the front, which makes the exercise pointless, and skinny single-foot wedges mean lining up two separate blocks. ANCHOR is one piece, 27" long and 11" deep. Both feet stand on it side by side at shoulder width, and the 11" depth fits men's feet up to size 15. There are no stacked layers to shift and no second block to line up.</p>
       <p>The molded foot guides point the right way up the slope. Because they're molded, not printed, they never rub off.</p>
     </div>
   </div>
@@ -158,7 +158,7 @@ td.n{color:var(--muted)}
 
 <section class="band band-paper" id="reason-5">
   <div class="wrap reason">
-    <div class="media land"><img loading="lazy" src="img/calf-stretch.webp" width="1152" height="864" alt="Socked feet on the ANCHOR wedge with toes uphill for a calf stretch"></div>
+    <div class="media land"><img loading="lazy" src="img/calf-stretch.webp" width="1152" height="864" alt="Both socked feet side by side on the long ANCHOR wedge for a calf stretch, with room to spare on each side"></div>
     <div>
       <span class="num">#5</span>
       <h2>Turn It Around for a Daily Calf Stretch</h2>
@@ -207,7 +207,7 @@ td.n{color:var(--muted)}
       <p>So he worked with a rubber molder to make one piece: a hardwood core over-molded in natural rubber, with the grip cast into the surface. It took 11 prototypes to find a texture that held socks without feeling like sandpaper on bare feet.</p>
       <ul class="specs">
         <li><b>15°</b>one even angle</li>
-        <li><b>28" × 11"</b>fits up to men's 15</li>
+        <li><b>27" × 11"</b>both feet, to men's 15</li>
         <li><b>1,000 lb</b>load rating</li>
         <li><b>~7 lb</b>with carry handle</li>
         <li><b>Hardwood</b>core, no foam</li>
@@ -276,7 +276,7 @@ td.n{color:var(--muted)}
       <details><summary>What if it slips or I don't like it?</summary><p>That's the Doesn't-Move Guarantee. Send it back within 60 days for a full refund, and we pay the return shipping. The grip itself is covered for life.</p></details>
       <details><summary>Will it work in socks or barefoot?</summary><p>Yes. That's what the molded rubber texture is for. It grips socks and bare skin as well as shoes, and there's no tape to wear smooth.</p></details>
       <details><summary>Is 15° enough?</summary><p>15° is the standard angle for heel-elevated squats and the one most programs use for slant squats. It's enough to keep your torso upright without pitching you onto your toes.</p></details>
-      <details><summary>I have big feet. Will they fit?</summary><p>The platform is 28" × 11", long enough for men's size 15 with both feet on at once, in a narrow or wide stance.</p></details>
+      <details><summary>I have big feet. Will they fit?</summary><p>ANCHOR is 27" long and 11" deep. Both feet stand on it side by side, in a narrow or shoulder-width stance, and the 11" depth fits men's feet up to size 15.</p></details>
       <details><summary>Why not just stand on a plate?</summary><p>A plate gives you a ledge, not an angle. Your heel balances on a round edge that can roll or slide. ANCHOR supports your whole foot at one steady angle.</p></details>
       <details><summary>Why not squat shoes?</summary><p>Lifting shoes cost more and only raise your heels while you're wearing them. ANCHOR works for squats, split squats and calf stretches, and anyone in your house can use it.</p></details>
       <details><summary>Is it heavy to carry?</summary><p>About 7 lb, with a molded carry handle. It's solid enough not to move, and light enough to take to the gym.</p></details>

diff --git a/pages/squat-wedge-angles/index.html b/pages/squat-wedge-angles/index.html
@@ -62,7 +62,7 @@ footer{font-size:12px;color:var(--muted);border-top:1px solid var(--line);paddin
 Anything marked <strong>(example spec)</strong> is an imagined product detail for this example (approved for this workshop). Personas, counts and quotes are all real.</p>
 
 <h2>The answer in one line</h2>
-<p><strong>Recommended winning angle: "The squat wedge that doesn't move."</strong> That means no slip (even barefoot or in socks), no give under a loaded bar, and no grip tape to peel off, on a platform wide enough for size-13 feet.</p>
+<p><strong>Recommended winning angle: "The squat wedge that doesn't move."</strong> That means no slip (even barefoot or in socks), no give under a loaded bar, and no grip tape to peel off, on one 27"-long platform both feet stand on, deep enough for size-13 feet.</p>
 <ul>
 <li>Slipping is the #1 complaint: 41 of the 139 one-to-three-star reviews (29%).</li>
 <li>Cheap material is the #2 complaint: 50 of 139 (36%) say styrofoam, compresses, or crumbles.</li>
@@ -404,7 +404,7 @@ Anything marked <strong>(example spec)</strong> is an imagined product detail fo
 <li>A one-piece 15° wedge with a hardwood core, over-molded in natural rubber.</li>
 <li>A molded-in micro-texture top that grips bare feet, socks and shoes, with no glued grip tape.</li>
 <li>A full rubber base.</li>
-<li>A 28" × 11" platform that fits up to men's size 15.</li>
+<li>A 27" × 11" one-piece platform: 27" long (the length of the UNMERA wedge, B0FCXR7987) so both feet stand on it side by side at shoulder width, and 11" deep for men's feet up to size 15.</li>
 <li>Rated to 1,000 lb, weighs about 7 lb, and comes with a carry handle.</li>
 <li>Foot guides molded in, not printed, and low-odor.</li>
 <li>Lifetime grip guarantee.</li>
